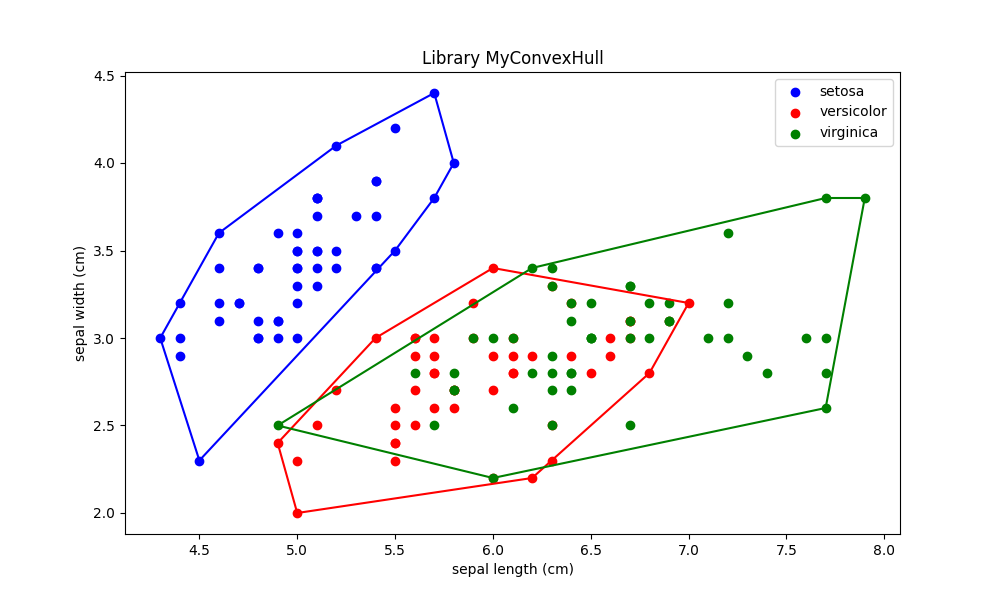
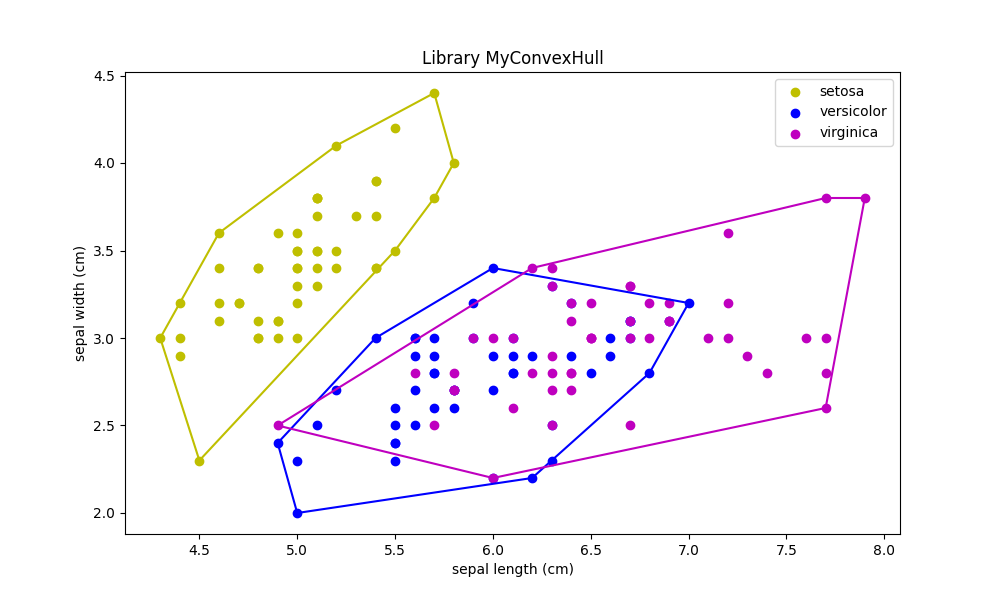
bedain warna library

diff --git a/src/mainProgram.py b/src/mainProgram.py
@@ -147,7 +147,7 @@ def breast_cancer():
 def buatanSendiri(df, judul, xlabel, ylabel,xkolom, ykolom, labelnames, namafile):
     plt.figure(figsize = (10, 6))
     labelsize = len(df['label'].unique())
-    warna = fungsiWarna(labelsize)
+    warna = fungsiWarna2(labelsize)
     plt.title(judul)
     plt.xlabel(xlabel)
     plt.ylabel(ylabel)
@@ -165,7 +165,7 @@ def buatanSendiri(df, judul, xlabel, ylabel,xkolom, ykolom, labelnames, namafile
 def buatanPython(df, judul, xlabel, ylabel,xkolom, ykolom, labelnames, namafile):
     plt.figure(figsize = (10, 6))
     labelsize = len(df['label'].unique())
-    warna = fungsiWarna(labelsize)
+    warna = fungsiWarna1(labelsize)
 
     plt.title(judul)
     plt.xlabel(xlabel)
@@ -181,8 +181,18 @@ def buatanPython(df, judul, xlabel, ylabel,xkolom, ykolom, labelnames, namafile)
     plt.legend()
     plt.savefig('output/' + namafile)
 
-def fungsiWarna(n):
+def fungsiWarna1(n):
     warna = ['b','r','g','c','m','y','k','w']
+    if n > len(warna):
+        for i in (range(n-len(warna))):
+            r = random.random()
+            g = random.random()
+            b = random.random()
+            warna.append((r, g, b))
+    return warna
+
+def fungsiWarna2(n):
+    warna = ['y','b','m','c','g','y','k','w']
     if n > len(warna):
         for i in (range(n-len(warna))):
             r = random.random()
